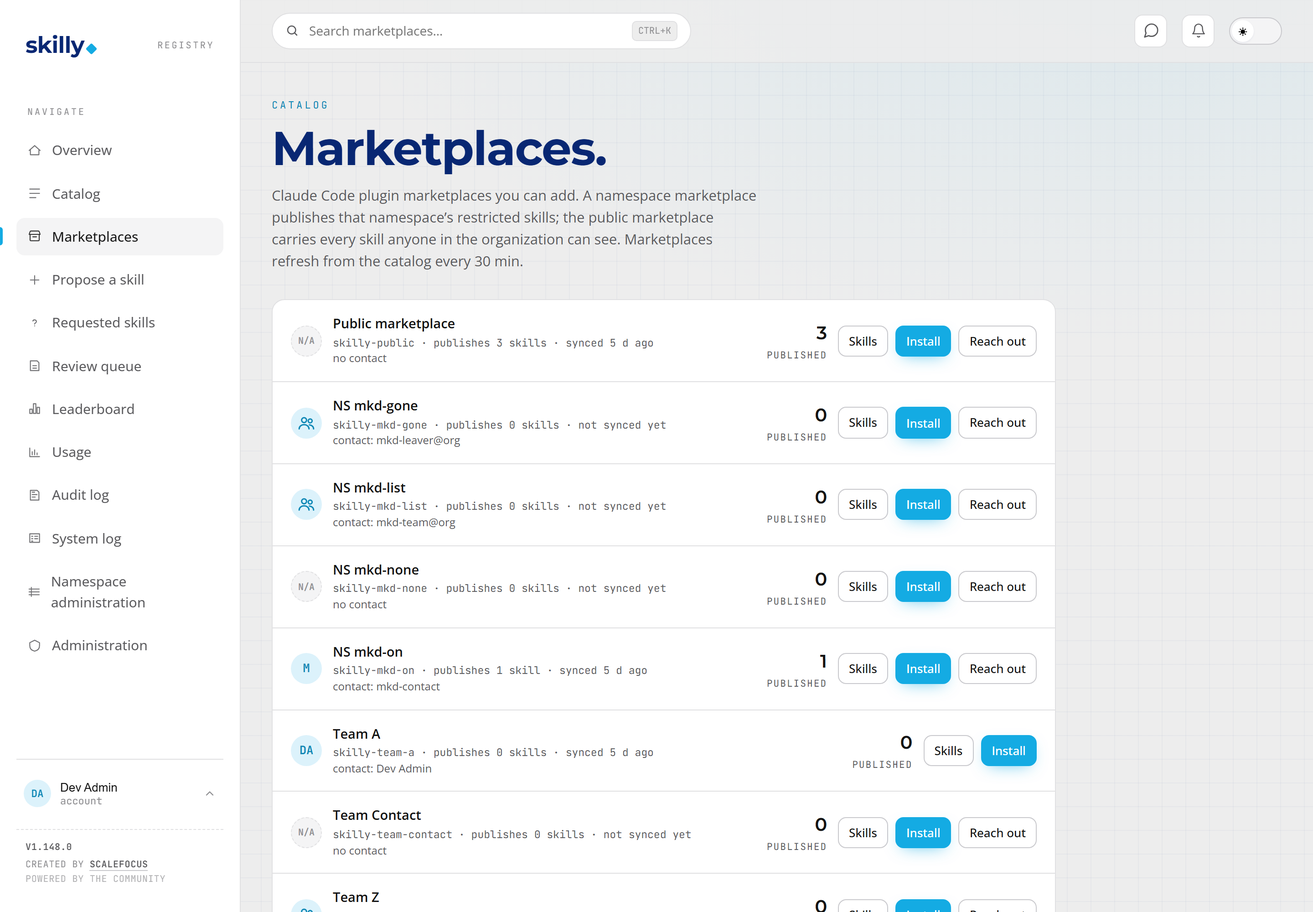
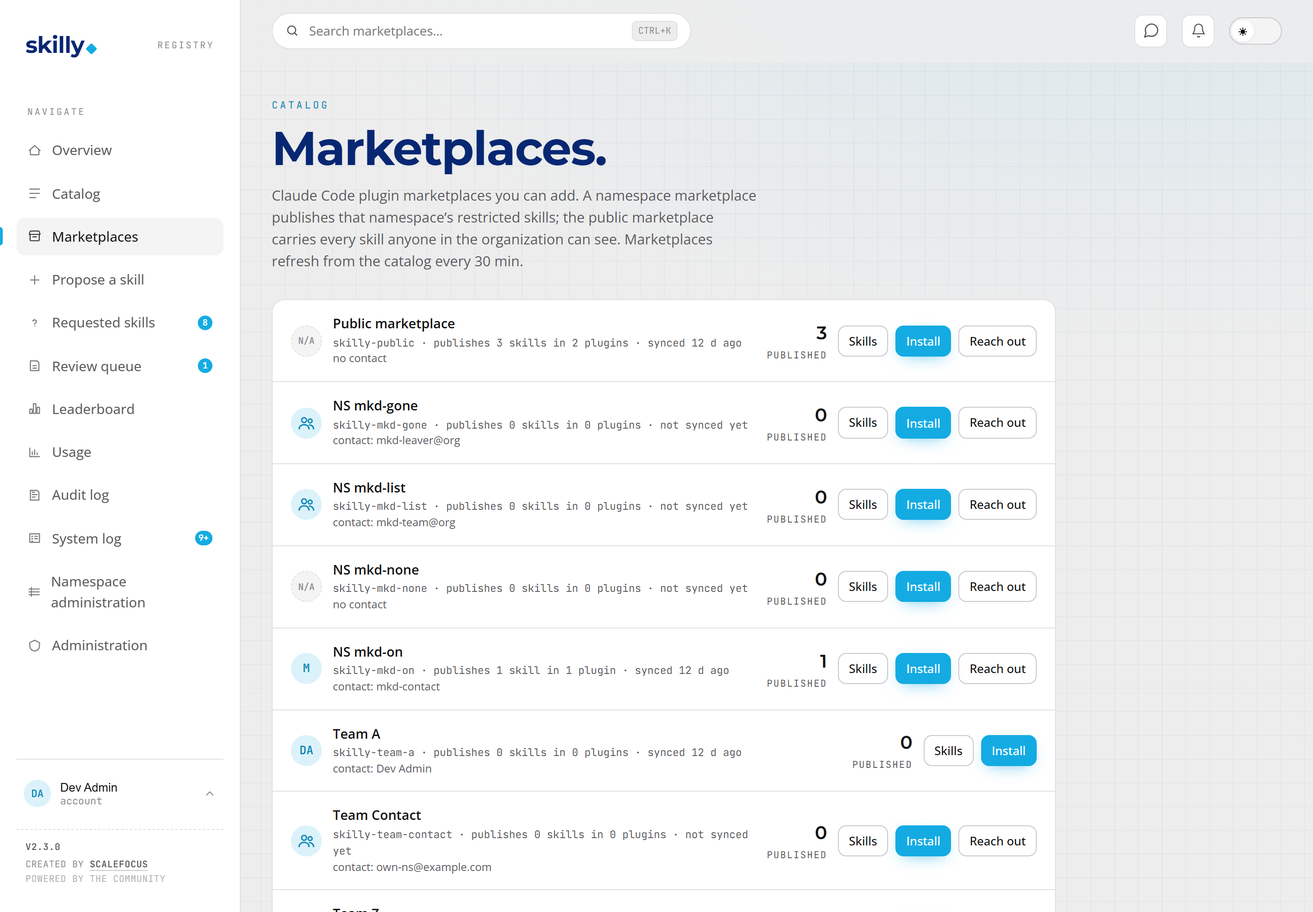
feat(quick-start): achievements card + category-plugin correction (v2.3.0) (#94)
Quick start gains an unnumbered **"Collect the badges as you go"** card
between Step 6 and the contribute pointer, and Step 4's marketplace copy
is corrected for the breaking change shipped in v2.0.0.

Spec first (`SKILLY_SPEC.md` §23, §31.5), approved before any code was
written.

## The achievements card

- **Framed as the nudge, not the mechanic.** §31 exists for exploration
nudging, so the card says skilly records which parts you have tried and
the locked badges name the rest. Placed after Step 6 on purpose: by then
the reader has met every part of skilly a badge refers back to.
- **The Quick start badge is named tenselessly** — *"Completing this
Quick start earns one of them: Read the Manual"* — so the sentence stays
true for someone reopening the page months later.
- **Only badges this tour teaches are quoted.** The two habits badges
are deliberately left unnamed; an onboarding tour on an employer-hosted
registry should not advertise working at midnight or at the weekend.
They stay discoverable on the profile card.
- **Sharing is disclosed at onboarding**, since the hall is open to any
signed-in colleague by default, along with the switch on Profile that
hides it.
- **One sentence separates** these permanent personal badges from the
competitive leader badges that share their visual language under
avatars.
- **One same-tab button** to `/profile#achievements`, not the hall,
which is empty for a new user. The closing CTA row is unchanged.
[…]

diff --git a/packages/web/src/app/quick-start/content.test.ts b/packages/web/src/app/quick-start/content.test.ts
@@ -3,9 +3,11 @@
 // connect your agent" step. Run via `pnpm --filter @skilly/web test:unit`.
 import { test } from "node:test";
 import assert from "node:assert/strict";
+import { ACHIEVEMENTS } from "@skilly/shared/achievements";
 import { QUICK_START } from "./content";
 
 const steps = QUICK_START.filter((s) => s.kind === "step");
+const textOf = (s: (typeof QUICK_START)[number]) => [s.lead, ...(s.points ?? [])].join("\n");
 
 test("quick start: numbered steps run 1..6 in order with no gaps", () => {
   assert.deepEqual(steps.map((s) => s.n), [1, 2, 3, 4, 5, 6]);
@@ -37,7 +39,7 @@ test("quick start: step 4 links same-tab to the Marketplaces directory and the M
 test("quick start: step 4 copy covers both routes, the client requirement, and the admin caveat", () => {
   const connect = steps.find((s) => s.n === 4);
   assert.ok(connect);
-  const text = [connect.lead, ...(connect.points ?? [])].join("\n");
+  const text = textOf(connect);
   assert.match(text, /plugin marketplace/);
   assert.match(text, /one public marketplace, plus one for each team/);
   assert.match(text, /Terminal, Claude CLI, or a Settings file/);
@@ -47,6 +49,83 @@ test("quick start: step 4 copy covers both routes, the client requirement, and t
   assert.match(text, /No credential goes into any config file/);
   assert.match(text, /Revoke a connection/);
   assert.match(text, /administrator decides whether these are enabled/);
+});
+
+// v2.0.0 replaced per-skill plugins with one plugin per category and renamed skill invocation.
+// Step 4 predates that change, so this guards the corrected copy against silently reverting.
+test("quick start: step 4 explains that a marketplace ships category plugins, not single skills", () => {
+  const connect = steps.find((s) => s.n === 4);
+  assert.ok(connect);
+  const text = textOf(connect);
+  assert.match(text, /one plugin per category/);
+  assert.match(text, /general plugin/);
+  assert.match(text, /\/<category>:<skill>/);
+  assert.match(text, /\/<category>:<namespace>-<skill>/);
+});
+
+// ---------------------------------------------------------------------------------------------
+// The Achievements card (§23 / §31.5) — unnumbered, conditional, and quoting the shared catalog.
+// ---------------------------------------------------------------------------------------------
+
+const achievements = QUICK_START.find((s) => s.kind === "achievements");
+
+/** The badge names the card quotes verbatim. Both directions are asserted below. */
+const QUOTED_BADGES = ["Read the Manual", "Hello, Skill", "Bulk Buyer", "Ghost in the Machine", "Wishful Thinker", "Homegrown"];
+
+test("quick start: the achievements card sits after the last step and before the contribute card", () => {
+  assert.ok(achievements, "the achievements card is missing");
+  const kinds = QUICK_START.map((s) => s.kind);
+  const lastStep = kinds.lastIndexOf("step");
+  const idx = kinds.indexOf("achievements");
+  const contribute = kinds.indexOf("contribute");
+  assert.equal(idx, lastStep + 1, "achievements must directly follow the last numbered step");
+  assert.equal(contribute, idx + 1, "the contribute card must directly follow achievements");
+  // Unnumbered: it must never join the consumer spine.
+  assert.equal(achievements.n, undefined);
+  assert.equal(kinds.filter((k) => k === "achievements").length, 1);
+});
+
+test("quick start: the achievements card links same-tab to the profile card, not the hall", () => {
+  assert.ok(achievements);
+  assert.deepEqual(achievements.internalLinks?.map((l) => l.href), ["/profile#achievements"]);
+  assert.equal(achievements.links, undefined);
+  assert.equal(achievements.image, "/quickstart/achievements.png");
+});
+
+// The card duplicates badge names in hand-authored prose rather than rendering the catalog, so a
+// rename in @skilly/shared must fail the build instead of silently falsifying onboarding copy.
+test("quick start: every badge name the achievements card quotes still exists in the catalog", () => {
+  assert.ok(achievements);
+  const text = textOf(achievements);
+  const names = new Set(ACHIEVEMENTS.map((a) => a.name));
+  for (const q of QUOTED_BADGES) {
+    assert.ok(names.has(q), `the copy quotes "${q}", which is no longer a badge name in @skilly/shared/achievements`);
+    assert.ok(text.includes(q), `"${q}" is listed as quoted but no longer appears in the card copy`);
+  }
+});
+
+// A deliberate, spec'd exclusion: an onboarding tour on an employer-hosted registry does not
+// advertise working at midnight or at the weekend. They stay discoverable on the profile card.
+test("quick start: the achievements card never names the habits badges", () => {
+  assert.ok(achievements);
+  const text = textOf(achievements);
+  for (const key of ["night_shift", "weekend_warrior"]) {
+    const def = ACHIEVEMENTS.find((a) => a.key === key);
+    assert.ok(def, `${key} is missing from the catalog`);
+    assert.ok(!text.includes(def.name), `the card must not name the habits badge "${def.name}"`);
+  }
+});
+
+test("quick start: the achievements card covers sharing, the privacy switch, and the leaderboard distinction", () => {
+  assert.ok(achievements);
+  const text = textOf(achievements);
+  // Tenseless: true on a first read and on a re-read months later.
+  assert.match(text, /Completing this Quick start earns/);
+  assert.doesNotMatch(text, /you just earned/i);
+  assert.match(text, /hall that any signed-in colleague can open/);
+  assert.match(text, /switch on your Profile/);
+  assert.match(text, /personal and permanent/);
+  assert.match(text, /competitive leaderboard/);
 });
 
 test("quick start: the intro names all three consumption routes", () => {

diff --git a/packages/web/src/app/quick-start/content.ts b/packages/web/src/app/quick-start/content.ts
@@ -3,7 +3,9 @@
 // this repo). Screenshots are served from packages/web/public/quickstart/ (captured and synced
 // by e2e/shots.mjs). SKILLY_SPEC.md §8.
 export interface QuickStartStep {
-  kind: "intro" | "step" | "prereq" | "contribute" | "closing";
+  /** `achievements` is the one conditional card: the page drops it while the platform toggle
+   *  `achievementsEnabled` is off or still unknown (§23 / §31.5). Every other kind is static. */
+  kind: "intro" | "step" | "prereq" | "contribute" | "achievements" | "closing";
   /** Step number shown in the rail (steps only). */
   n?: number;
   title: string;
@@ -98,6 +100,7 @@ export const QUICK_START: QuickStartStep[] = [
     lead:
       "Installing skills one at a time isn't the only route. If you use Claude Code, add a whole slice of the catalog as a plugin marketplace with a single command — there's one public marketplace, plus one for each team you belong to. The Marketplaces page lists every marketplace you can add and gives you the add command three ways (Terminal, Claude CLI, or a Settings file entry); the key in it is personal, and everything you've added is listed under My marketplaces in the account menu.",
     points: [
+      "What you add is a group, not a single skill: a marketplace publishes one plugin per category — productivity, docs, and a general plugin for anything uncategorised — so one command brings the whole group at once. A skill from it is then invoked as /<category>:<skill> (on the public marketplace, /<category>:<namespace>-<skill>).",
       "Or connect your agent over MCP: Claude Code, Claude Desktop, and VS Code can talk to skilly directly. No credential goes into any config file — you sign in once in the browser, and from then on the agent can search the catalog, read skills, install them, and propose new ones for you. Revoke a connection any time from the MCP server page.",
       "Marketplaces need Claude Code; MCP needs an MCP-capable agent. Your administrator decides whether these are enabled for your registry.",
     ],
@@ -125,6 +128,26 @@ export const QUICK_START: QuickStartStep[] = [
       "skilly tells you when something you care about changes. The bell shows notifications — for example when a new version of a skill you maintain or installed ships — and What's new lists every product change, newest first.",
     image: "/quickstart/notifications.png",
     alt: "The notifications page in skilly",
+  },
+  {
+    // §23 / §31.5 — the exploration nudge, deliberately unnumbered so the consumer spine stays 1–6,
+    // and deliberately placed here: the reader has now met every part of skilly a badge refers to.
+    // The Quick start badge is named tenselessly ("Completing this Quick start earns…") so the line
+    // stays true for someone reopening the page months later. Habits badges (Night Shift, Weekend
+    // Warrior) are deliberately NOT named here — see the spec. Names quoted below are guarded by
+    // content.test.ts against the shared catalog, so a rename fails the build.
+    kind: "achievements",
+    title: "Collect the badges as you go",
+    lead:
+      "skilly quietly keeps track of which parts of it you have actually tried, and turns each first time into a badge. Completing this Quick start earns one of them: Read the Manual. Everything else starts locked, and every locked badge on your profile spells out how to earn it — so the list doubles as a map of what there is to try.",
+    points: [
+      "The badges follow the steps you have just read: Hello, Skill for your first install, Bulk Buyer for your first marketplace, Ghost in the Machine once an agent talks to skilly over MCP, Wishful Thinker for asking the org for a skill nobody has built yet, and Homegrown for proposing one of your own.",
+      "Your earned badges form a hall that any signed-in colleague can open. There is a switch on your Profile if you would rather keep it to yourself.",
+      "These are personal and permanent — once earned, never lost. The small badges under people's avatars are a different thing: those are the competitive leaderboard ones, and they change hands as the board moves.",
+    ],
+    internalLinks: [{ label: "My achievements →", href: "/profile#achievements" }],
+    image: "/quickstart/achievements.png",
+    alt: "The Achievements card on the profile page, showing earned badges alongside locked ones with hints on how to earn them",
   },
   {
     kind: "contribute",

diff --git a/packages/web/e2e/quick-start.spec.ts b/packages/web/e2e/quick-start.spec.ts
@@ -31,6 +31,33 @@ test.describe("Quick start — connect step (§23)", () => {
     await expect(cta.getByRole("link", { name: "MCP server" })).toHaveAttribute("href", "/mcp");
   });
 
+  // §23 / §31.5 — the achievements card: unnumbered, sits between the last step and the contribute
+  // card, and carries the single in-app button into the profile's Achievements card.
+  test("the achievements card renders after the last step, before contribute", async ({ page }) => {
+    await page.goto("/quick-start", { waitUntil: "domcontentloaded" });
+    const headings = page.locator("main section h2");
+    await expect(headings.filter({ hasText: "Collect the badges as you go" })).toBeVisible({ timeout: 25_000 });
+    const titles = await headings.allTextContents();
+    const i = titles.indexOf("Collect the badges as you go");
+    expect(titles[i - 1]).toBe("Stay in the loop");
+    expect(titles[i + 1]).toBe("Want to contribute a skill?");
+
+    const card = page.locator("main section", { hasText: "Collect the badges as you go" });
+    const link = card.getByRole("link", { name: /^My achievements/ });
+    await expect(link).toHaveAttribute("href", "/profile#achievements");
+    await expect(link).not.toHaveAttribute("target", "_blank");
+    await expect(card.locator("img")).toHaveAttribute("src", "/quickstart/achievements.png");
+  });
+
+  test("the My achievements button lands on the profile's Achievements card", async ({ page }) => {
+    await page.goto("/quick-start", { waitUntil: "domcontentloaded" });
+    await expect(page.locator(".colophon-version")).toBeVisible({ timeout: 25_000 });
+    const card = page.locator("main section", { hasText: "Collect the badges as you go" });
+    await card.getByRole("link", { name: /^My achievements/ }).click({ timeout: 25_000 });
+    await expect(page).toHaveURL(/\/profile#achievements$/, { timeout: 25_000 });
+    await expect(page.getByTestId("achievements-card")).toBeVisible({ timeout: 25_000 });
+  });
+
   test("the Marketplaces button lands on the directory", async ({ page }) => {
     await page.goto("/quick-start", { waitUntil: "domcontentloaded" });
     // Wait for the shell to hydrate before clicking: a click that races a dev-server recompile /

diff --git a/packages/web/src/app/quick-start/page.tsx b/packages/web/src/app/quick-start/page.tsx
@@ -4,7 +4,7 @@ import Link from "next/link";
 import { useRouter } from "next/navigation";
 // Subpath import: client-safe pure constant (the root barrel pulls node:crypto).
 import { APP_VERSION } from "@skilly/shared/version";
-import { ScrollToTop, invalidateApi } from "../../components/ui";
+import { ScrollToTop, invalidateApi, useApi } from "../../components/ui";
 import { RequireAuth } from "../../components/RequireAuth";
 import { QUICK_START, type QuickStartStep } from "./content";
 
@@ -107,6 +107,13 @@ function Card({ step }: { step: QuickStartStep }) {
 
 function QuickStart() {
   const router = useRouter();
+  // §23 — the Achievements card is the ONE card on this page that consults a platform setting.
+  // With `achievements_enabled` off the profile card it points at does not exist (§31.7), so a
+  // static card would describe a missing feature and link to a dead anchor. Rendered only on a
+  // definite `true`: while the value is unknown (pre-load) the card stays out, so it never flashes
+  // in and then back out on a platform that has the feature switched off.
+  const { data: me } = useApi<{ achievementsEnabled?: boolean }>("/api/me");
+  const achievementsOn = me?.achievementsEnabled === true;
 
   // Mark the user onboarded the moment they land here — this releases AppShell's first-login
   // redirect gate (via the event) so navigating away never loops back, and persists it so later
@@ -128,7 +135,9 @@ function QuickStart() {
   }, []);
 
   const intro = QUICK_START.find((s) => s.kind === "intro");
-  const body = QUICK_START.filter((s) => s.kind !== "intro" && s.kind !== "closing");
+  const body = QUICK_START.filter(
+    (s) => s.kind !== "intro" && s.kind !== "closing" && (s.kind !== "achievements" || achievementsOn),
+  );
   const closing = QUICK_START.find((s) => s.kind === "closing");
 
   return (

diff --git a/packages/web/src/app/whats-new/changelog.ts b/packages/web/src/app/whats-new/changelog.ts
@@ -15,6 +15,12 @@ export interface ChangelogEntry {
 
 export const CHANGELOG: ChangelogEntry[] = [
   {
+    version: "2.3.0",
+    date: "2026-09-15",
+    summary:
+      "Quick start now ends with an Achievements card: completing the guide earns Read the Manual, and the card explains that every locked badge on your profile tells you how to earn it, that your badges form a hall colleagues can open unless you hide it, and that these differ from the competitive badges under people's avatars. It is the one card that disappears when an administrator switches achievements off. Also corrected: the marketplace step still described the old one-plugin-per-skill layout, and now says a marketplace ships one plugin per category and that skills are invoked as /<category>:<skill>.",
+  },
+  {
     version: "2.2.0",
     date: "2026-09-15",
     summary: "Achievements: 20 badges for trying each part of skilly for the first time — install a skill, add a marketplace, connect over MCP, ask for or propose a skill, get published, join a discussion, watch, rate, and two habits badges (Night Shift, Weekend Warrior) judged in your own timezone. Your profile shows every badge with hints on how to earn the locked ones and a Share button; the link opens your hall for any signed-in colleague (hide it under Profile → Achievements visibility). Badges you already earned in the past are there from day one; new ones announce themselves with a toast and a bell notification. Administrators can switch the feature off under Administration → Achievements.",

diff --git a/packages/shared/src/version.ts b/packages/shared/src/version.ts
@@ -5,4 +5,4 @@
 //   patch — fixes, styling, copy, small tweaks
 //   minor — new features / behaviors / endpoints / migrations
 //   major — breaking changes (install contract, API shapes, config)
-export const APP_VERSION = "2.2.0";
+export const APP_VERSION = "2.3.0";

diff --git a/SKILLY_SPEC.md b/SKILLY_SPEC.md
@@ -2144,8 +2144,10 @@ skill-scoped, reusable, TTL'd, hard-deletable — with the *user* dimension remo
   **consumer journey**: an unnumbered **"If you're new to the AI skill
   game"** prerequisites section (below) → **1** find a skill → **2** open it → **3** install it →
   **4** two more ways to connect your agent (marketplaces + MCP, below) → **5** manage installed
-  skills → **6** stay in the loop, plus a "want to contribute?" pointer and a closing CTA. Reached
-  any time from the **account menu, above What's new** (the menu's first item). The intro's
+  skills → **6** stay in the loop → an unnumbered **"Collect the badges as you go"** achievements
+  card (below; the only card on the page that hides itself when a platform toggle is off), plus a
+  "want to contribute?" pointer and a closing CTA.
+  Reached any time from the **account menu, above What's new** (the menu's first item). The intro's
   one-line promise names all three consumption routes ("find a skill, install it into your agent
   — or add a whole marketplace, or connect over MCP — and keep it up to date").
 - **"If you're new to the AI skill game"** (fixed, unnumbered — sits right after the intro, before
@@ -2170,12 +2172,22 @@ skill-scoped, reusable, TTL'd, hard-deletable — with the *user* dimension remo
   peers of `npx skills add`, each in its own short paragraph, in this order:
   - **Claude plugin marketplaces (§30)** — for **Claude Code** users: instead of installing skills
     one by one, add a whole slice of the catalog as a plugin marketplace with one command. One
-    sentence on topology: *one public marketplace, plus one per team you belong to*. The
-    **Marketplaces** page lists every marketplace the user may add and hands out the add command in
-    three flavours (Terminal, Claude CLI, Settings file — §30.6); the key in it is personal, and
+    sentence on topology: *one public marketplace, plus one per team you belong to*. **What you add
+    from it is a category plugin, not a single skill** (§30, since v2.0.0): a marketplace publishes
+    **one plugin per category** — `productivity@<marketplace>`, `docs@<marketplace>`, and a
+    reserved `general` plugin for uncategorised skills — so one command brings a whole group, and a
+    skill is then invoked as **`/<category>:<skill>`** (public marketplace:
+    `/<category>:<namespace>-<skill>`). The **Marketplaces** page lists every marketplace the user
+    may add, shows its skills and plugins side by side, and hands out the add command in three
+    flavours (Terminal, Claude CLI, Settings file — §30.6); the key in it is personal, and
     everything added shows up under **My marketplaces** in the account menu (the Added
     marketplaces page — mentioned in prose only, no button). Step 5 likewise names the menu
     entry **My skills** as the way to the Installed skills page.
+    - **Why this correction ships with the Achievements card:** the paragraph was written at
+      v1.149.0, *before* v2.0.0 replaced per-skill plugins with per-category plugins and renamed
+      skill invocation. It was therefore not merely incomplete but **wrong about a breaking
+      change**, on the one page every brand-new user is forced through. Corrected here rather than
+      deferred to its own cycle.
   - **MCP server (§29)** — connect **Claude Code, Claude Desktop, or VS Code** to skilly directly.
     No credential goes into any config file: the user signs in once in the browser, after which the
     agent can search the catalog, read skills, install them, and propose new ones on the user's
@@ -2191,11 +2203,74 @@ skill-scoped, reusable, TTL'd, hard-deletable — with the *user* dimension remo
     **MCP server →** `/mcp`. The content module gains an **`internalLinks`** field for these,
     kept separate from `links` so the two link kinds cannot be confused.
   - **Screenshot**: `/quickstart/connect.png` — a capture of the Marketplaces directory page
-    (captured with at least one marketplace enabled so the rows show).
+    (captured with at least one marketplace enabled so the rows show). **Re-captured** in the same
+    run as the Achievements screenshot below: the shipped file predates v2.0.0 and shows the old
+    per-skill marketplace page, so it is replaced by a capture of the current page, which lists
+    skills and plugins side by side.
+- **Achievements card — "Collect the badges as you go"** (**unnumbered**; sits after Step 6 and
+  **before** the "want to contribute?" card). A new `kind: "achievements"` in the content module, a
+  sibling of the existing `prereq` / `contribute` kinds, so it never joins the numbered spine — the
+  numbered steps stay exactly **1–6** and `content.test.ts`'s step-sequence assertion is unchanged.
+  - **Framing is the nudge, not the mechanic** — §31's own stated purpose is exploration nudging,
+    so the card says that skilly quietly records which parts of it you have tried, and that the
+    **locked** badges name the parts you have not. Placed here deliberately: by this point the
+    reader has met every part of skilly the badges refer back to, so the card reads as a checklist
+    of the tour they have just finished, at the moment they are deciding what to do next.
+  - **The Quick start badge is named, tenselessly.** The copy states that **completing this Quick
+    start earns one of them** — `onboarded` / *Read the Manual* (§31.1), already awarded by this
+    page's own `POST /api/me/onboarded` on mount. Phrased as a standing fact, **never** as *"you
+    just earned…"*: the same sentence has to stay true for a returning user who reopens the page
+    from the account menu months later, and for whom the badge is old news.
+  - **Named badges are limited to the ones this tour teaches** — installing a skill, adding a
+    marketplace, connecting over MCP, asking for a skill, proposing one — each echoing a step the
+    reader has just read. The catalog is **not** enumerated here; the full shelf lives on the
+    profile card, and the Quick start card is a sample that points at it.
+  - **Habits badges are deliberately omitted.** `night_shift` and `weekend_warrior` are **not**
+    named in the copy. They stay fully discoverable on the profile card; an onboarding tour on an
+    employer-hosted registry does not advertise working at midnight or at the weekend. A recorded
+    exclusion, not an oversight — revisit only with a deliberate decision.
+  - **The duplication is guarded by a test.** The card names badges in hand-authored prose rather
+    than rendering `ACHIEVEMENTS` live, consistent with the rest of this page being a static
+    content module. To stop the copy drifting from the catalog, `content.test.ts` gains an
+    assertion that **every badge name quoted in the Quick start copy still exists in
+    `@skilly/shared/achievements`** (matched on `name`), so renaming a badge fails the build
+    instead of silently falsifying onboarding. Adding a *new* badge to the catalog does **not**
+    fail the test — the card is a sample, not an index.
+  - **Sharing is disclosed at onboarding.** One clause states that earned badges form a **hall any
+    signed-in colleague can open**, and that Profile carries a switch to hide it
+    (`achievements_hidden`, §31.5). Visibility is on by default, so the honest place to say so is
+    the tour, not the moment of discovery.
+  - **One sentence separating the two badge systems** (§31 vs §21): achievements are personal and
+    permanent; the small badges under people's avatars are the competitive leaderboard ones. They
+    share a visual language and would otherwise be conflated on first sight.
+  - **One internal link button** — **My achievements →** `/profile#achievements` (an
+    `internalLinks` entry, same-tab, exactly like Step 4's two). It points at the **profile card,
+    not the hall**: a new user's own hall is nearly empty, and it is reachable from the card via
+    *"View as others see it"*. The **closing CTA row is unchanged** — it already carries five
+    buttons and a sixth crowds it.
+  - **Screenshot**: `/quickstart/achievements.png` — a capture of the profile **Achievements** card
+    with **earned and locked tiles visible together**, since the locked how-to-earn hints are the
+    entire point of the nudge. This has a real capture cost: the `QUICKSTART` map in `e2e/shots.mjs`
+    gains the entry, and the capture account must **already hold several badges**, which the plain
+    dev sign-in user does not by default.
+  - **Conditional — the only card on this page that consults a platform setting.** It renders only
+    when `achievementsEnabled` is true and is omitted entirely (card, button and screenshot) when
+    the toggle is off. This **departs from Step 4's static precedent deliberately**, because the
+    precedent's own justification does not hold here: a platform with marketplaces or MCP disabled
+    still serves a page that explains itself, whereas `achievements_enabled = false` makes the
+    profile **Achievements card vanish** (§31.7) — a static Quick start card would then describe a
+    feature the reader cannot find and link to an anchor that is not there. The flag already rides
+    the `GET /api/me` payload (§31.5) and this page already touches that endpoint on mount, so the
+    check costs one read through the shared client-side GET cache. While the value is still unknown
+    (pre-load) the card is **not** rendered, so it never flashes in and then out on a platform that
+    has the feature switched off.
 - **Closing CTA row** carries **Marketplaces** and **MCP server** alongside the existing What's new
   and Installed skills buttons (the primary "go to the catalog" button is unchanged).
-- **No re-onboarding.** Adding the step does **not** reset anyone's `onboarded_at`; existing users
-  learn about it from What's new and can reopen Quick start from the account menu.
+- **No re-onboarding.** Adding a step or a card does **not** reset anyone's `onboarded_at`; existing
+  users learn about it from What's new and can reopen Quick start from the account menu. **The
+  Achievements card is no exception** — a user who onboarded before it existed meets it only by
+  reopening the page, and their `onboarded` badge was already awarded (or backfilled, §31.6) long
+  before the card described it.
 - **Content** is a hand-authored module (`app/quick-start/content.ts`) rendered by the page.
   **Screenshots** are served from `packages/web/public/quickstart/` (Next only serves images from
   `public/`); they are a curated subset of the screenshots captured by **`e2e/shots.mjs`** (which
@@ -4651,6 +4726,15 @@ sign-in redirect** like every page):
 `achievements_hidden`, or when the platform toggle is off. Served as `achievementCount`
 (`number | null`) on the existing `GET /api/users/:id/card` payload (one indexed count; `null`
 means "don't show").
+
+**Quick start (§23):** the unnumbered **"Collect the badges as you go"** card — the feature's
+**discovery entry point for new users**. The account menu carries no achievements item, so the only
+other routes in are the profile anchor and the earned-badge toast, neither of which reaches a user
+who has earned nothing yet. The card names a sample of badges, states that completing Quick start
+earns `onboarded`, discloses that the hall is visible to any signed-in colleague, and links to
+`/profile#achievements`. It renders **no badge tiles of its own** — a static screenshot stands in —
+and is the one Quick start card that **hides itself when `achievements_enabled` is off**. Copy rules
+in §23.
 
 **Not rendered:** under avatar bubbles (that slot stays for the competitive leader badges, §21),
 on leaderboard rows, on catalog cards, or anywhere else.
